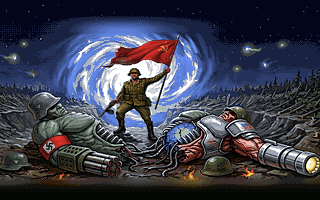
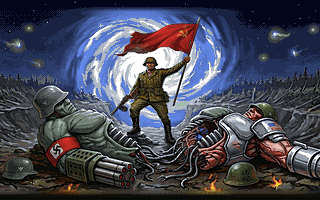
art(V3): D135 SDEND3 from the fixed Gemini painting (chest once), armband symbol

diff --git a/tools/art/gen_endings.py b/tools/art/gen_endings.py
@@ -15,13 +15,17 @@ episode's ending text (MAPINFO `Intermission SD_EndingN`, MOD-SPEC 6.14):
   SDEND2  gemini_ending_ep2_v2.jfif  Red Square: our Liberty Colossus thrown
                                      down (chrome plates, US patch, tablet,
                                      pink flesh at the joints), the banner.
-  SDEND3  gemini_ending_ep3_v2.jfif  Tunguska: the sergeant raises the banner
+  SDEND3  gemini_ending_ep3_v3.jfif  Tunguska: the sergeant raises the banner
                                      between the Consortium's two halves.
 
 The v2 paintings of episodes 2 and 3 were asked of Gemini with our enemy
 sheets attached, after the CEO judged the first round's enemies wrong ("no
 han dibujado bien los enemigos", "they did not draw the enemies right").
 The superseded first round is shown small in the preview as a reference.
+Episode 3's v3 (D135, 2026-10-27): the CEO approved SDEND1 and SDEND2 and saw
+in the v2 painting that the Legion half carried the chest piece (the cracked
+core) the Reich half already had; the v3 painting, asked of Gemini by the PM,
+keeps the composition and draws the chest piece once.
 
 The pipeline is gen_titlepic.py's (D126), the one the CEO approved:
 
@@ -154,15 +158,16 @@ ENDINGS = (
            "the whole Colossus (crown to torch, the US patch, the tablet), the "
            "sergeant and the banner, the Kremlin tower, St Basil's, the portal",
            signature=(1295, 718, 1362, 768), superseded="gemini_ending_ep2.jfif"),
-    # 1586x672 (2.36:1): both halves of the Consortium and their helmets
-    # span x 300-1500, so 1200 wide needs 900 rows: 140 of sky above, 88 of
-    # ground below.
-    Ending("SDEND3", 3, "gemini_ending_ep3_v2.jfif", (300, 1500), 140, 88,
+    # 1312x816 (v3, D135: the chest piece drawn once, the Legion half's opened
+    # chest; the v2 painting gave both halves the same piece). Both halves and their helmets span
+    # x 96-1312 (the Legion's projector runs off the right edge, as in v2),
+    # so 1216 wide needs 912 rows: 60 of sky above, 36 of ground below.
+    Ending("SDEND3", 3, "gemini_ending_ep3_v3.jfif", (96, 1312), 60, 36,
            "the sergeant and the banner before the imploding portal, the Reich "
-           "half with its armband and rocket tubes, the cracked blue core, the "
-           "Legion half with its projector and US patch, both helmets",
+           "half with its armband and rocket tubes, the Legion half with its "
+           "opened chest, projector and US patch, both helmets",
            pad_mode="extend",
-           armband=Armband((420, 460, 580, 600), "white", 120.0, 90),
+           armband=Armband((250, 550, 430, 700), "white", 120.0, 90),
            superseded="gemini_ending_ep3.jfif"),
 )
 

diff --git a/tests/test_endings.py b/tests/test_endings.py
@@ -141,8 +141,15 @@ class GeneratorTests(unittest.TestCase):
         self.assertEqual([e.episode for e in self.g.ENDINGS], [1, 2, 3])
         self.assertEqual(self.g.INSTALL_DIR, ENDINGS_DIR)
 
-    # the Gemini paintings' heights (gemini_ending_ep1 1312x816, ep2_v2 1376x768, ep3_v2 1586x672)
-    PAINTING_HEIGHTS = {"SDEND1": 816, "SDEND2": 768, "SDEND3": 672}
+    # the Gemini paintings' heights (gemini_ending_ep1 1312x816, ep2_v2 1376x768, ep3_v3 1312x816)
+    PAINTING_HEIGHTS = {"SDEND1": 816, "SDEND2": 768, "SDEND3": 816}
+
+    def test_episode_3_is_the_v3_painting(self):
+        """D135: the CEO saw the same chest piece on both halves in ep3_v2;
+        the v3 painting draws it once, and only SDEND3 was redone from it."""
+        refs = {e.lump: e.ref for e in self.g.ENDINGS}
+        self.assertEqual(refs, {"SDEND1": "gemini_ending_ep1.jfif", "SDEND2": "gemini_ending_ep2_v2.jfif",
+                                "SDEND3": "gemini_ending_ep3_v3.jfif"})
 
     def test_every_window_is_4_3(self):
         """A 320x200 screen is shown at 4:3: the window's width is 4/3 of the

diff --git a/docs/art/LICENSES.md b/docs/art/LICENSES.md
@@ -630,7 +630,9 @@ palette v3 in CIELAB with a 4x4 ordered dither); the source images stay local
 in `work/art/reference/` and are not distributed (D77). Episodes 2 and 3 are
 Gemini's second round, asked with the mod's own enemy sheets attached
 (the Liberty Colossus, the Consortium; D123, D128), after the CEO turned
-down the first round's enemies. The D12 symbol on the Reich armbands
+down the first round's enemies; episode 3 was asked a third time (`_v3`,
+D135, 2026-10-27), the same composition with the chest piece the CEO saw on
+both halves drawn once. The D12 symbol on the Reich armbands
 (episode 1's fallen soldier, the Consortium's Reich half) is painted by
 `tools/art/armband_symbol.py` at the painting's resolution and drawn again at
 the screen's pixels (D105, D108, D114), as on the title screen. Gemini's
@@ -641,7 +643,7 @@ The AI use is disclosed in the game's and the release's credits (D79).
 |---|---|---|---|
 | `SDEND1` | Episode 1's ending (Tankograd): the sergeant at the breaker, the portal going dark, the invaders' column marching out toward Moscow, a Legion and a Reich soldier dead in front; the D12 symbol on the Reich armband | (a) derived from `work/art/reference/gemini_ending_ep1.jfif` (Gemini, the project lead) by `tools/art/gen_endings.py` | Soviet Doom project, CC BY-NC-SA 4.0 (D15); AI use disclosed (D79) |
 | `SDEND2` | Episode 2's ending (Red Square): the Liberty Colossus thrown down (chrome plates, US patch, the blank tablet, pink flesh at the joints), the sergeant raising the red banner on it, the crowd, the Spasskaya tower, St Basil's, the portal | (a) derived from `work/art/reference/gemini_ending_ep2_v2.jfif` (Gemini, the project lead, with the Colossus sheet attached) by `tools/art/gen_endings.py` | Soviet Doom project, CC BY-NC-SA 4.0 (D15); AI use disclosed (D79) |
-| `SDEND3` | Episode 3's ending (Tunguska): the sergeant raising the banner before the imploding portal between the Consortium's two halves (the Reich half with its armband and rocket tubes, the cracked blue core, the Legion half with its projector and US patch) and their helmets; the D12 symbol on the armband | (a) derived from `work/art/reference/gemini_ending_ep3_v2.jfif` (Gemini, the project lead, with the Consortium sheet attached) by `tools/art/gen_endings.py` | Soviet Doom project, CC BY-NC-SA 4.0 (D15); AI use disclosed (D79) |
+| `SDEND3` | Episode 3's ending (Tunguska): the sergeant raising the banner before the imploding portal between the Consortium's two halves (the Reich half with its armband and rocket tubes, the Legion half with its opened chest, projector and US patch) and their helmets; the D12 symbol on the armband | (a) derived from `work/art/reference/gemini_ending_ep3_v3.jfif` (Gemini, asked by the PM on 2026-10-27 from `gemini_ending_ep3_v2.jfif`, the project lead's painting with the Consortium sheet attached: same composition, the chest piece drawn once, D135) by `tools/art/gen_endings.py`; redone 2026-10-27, SDEND1 and SDEND2 unchanged | Soviet Doom project, CC BY-NC-SA 4.0 (D15); AI use disclosed (D79) |
 
 ## Music (D43, installed 2026-10-13)
 

diff --git a/docs/art/TEXTURE-INDEX.md b/docs/art/TEXTURE-INDEX.md
@@ -708,7 +708,7 @@ engine (D26).
 |---|---|---|---|---|---|---|---|
 | `SDEND1` | end-sequence picture (indexed) | 320×200 | no | Tankograd: the sergeant at the breaker, the dying portal, the column marching on Moscow, the Legion and Reich dead; the armband symbol | (a) gen_endings from `gemini_ending_ep1.jfif`, palette v3 | proposal (V3 B2) | 2026-10-25 |
 | `SDEND2` | end-sequence picture (indexed) | 320×200 | no | Red Square: the fallen Liberty Colossus, the sergeant and the banner, the crowd, the Kremlin, St Basil's, the portal; 42 rows of sky added above | (a) gen_endings from `gemini_ending_ep2_v2.jfif`, palette v3 | proposal (V3 B2) | 2026-10-25 |
-| `SDEND3` | end-sequence picture (indexed) | 320×200 | no | Tunguska: the sergeant and the banner before the imploding portal, the Consortium's two halves and helmets; the armband symbol; 140 rows of night sky above, 88 of ground below | (a) gen_endings from `gemini_ending_ep3_v2.jfif`, palette v3 | proposal (V3 B2) | 2026-10-25 |
+| `SDEND3` | end-sequence picture (indexed) | 320×200 | no | Tunguska: the sergeant and the banner before the imploding portal, the Consortium's two halves (the chest piece once, D135) and helmets; the armband symbol; 60 rows of night sky above, 36 of ground below | (a) gen_endings from `gemini_ending_ep3_v3.jfif`, palette v3 | proposal (V3 B2; v3 painting, D135) | 2026-10-27 |
 
 ## The alphabet (D24) — glyph fix and German letters
 
